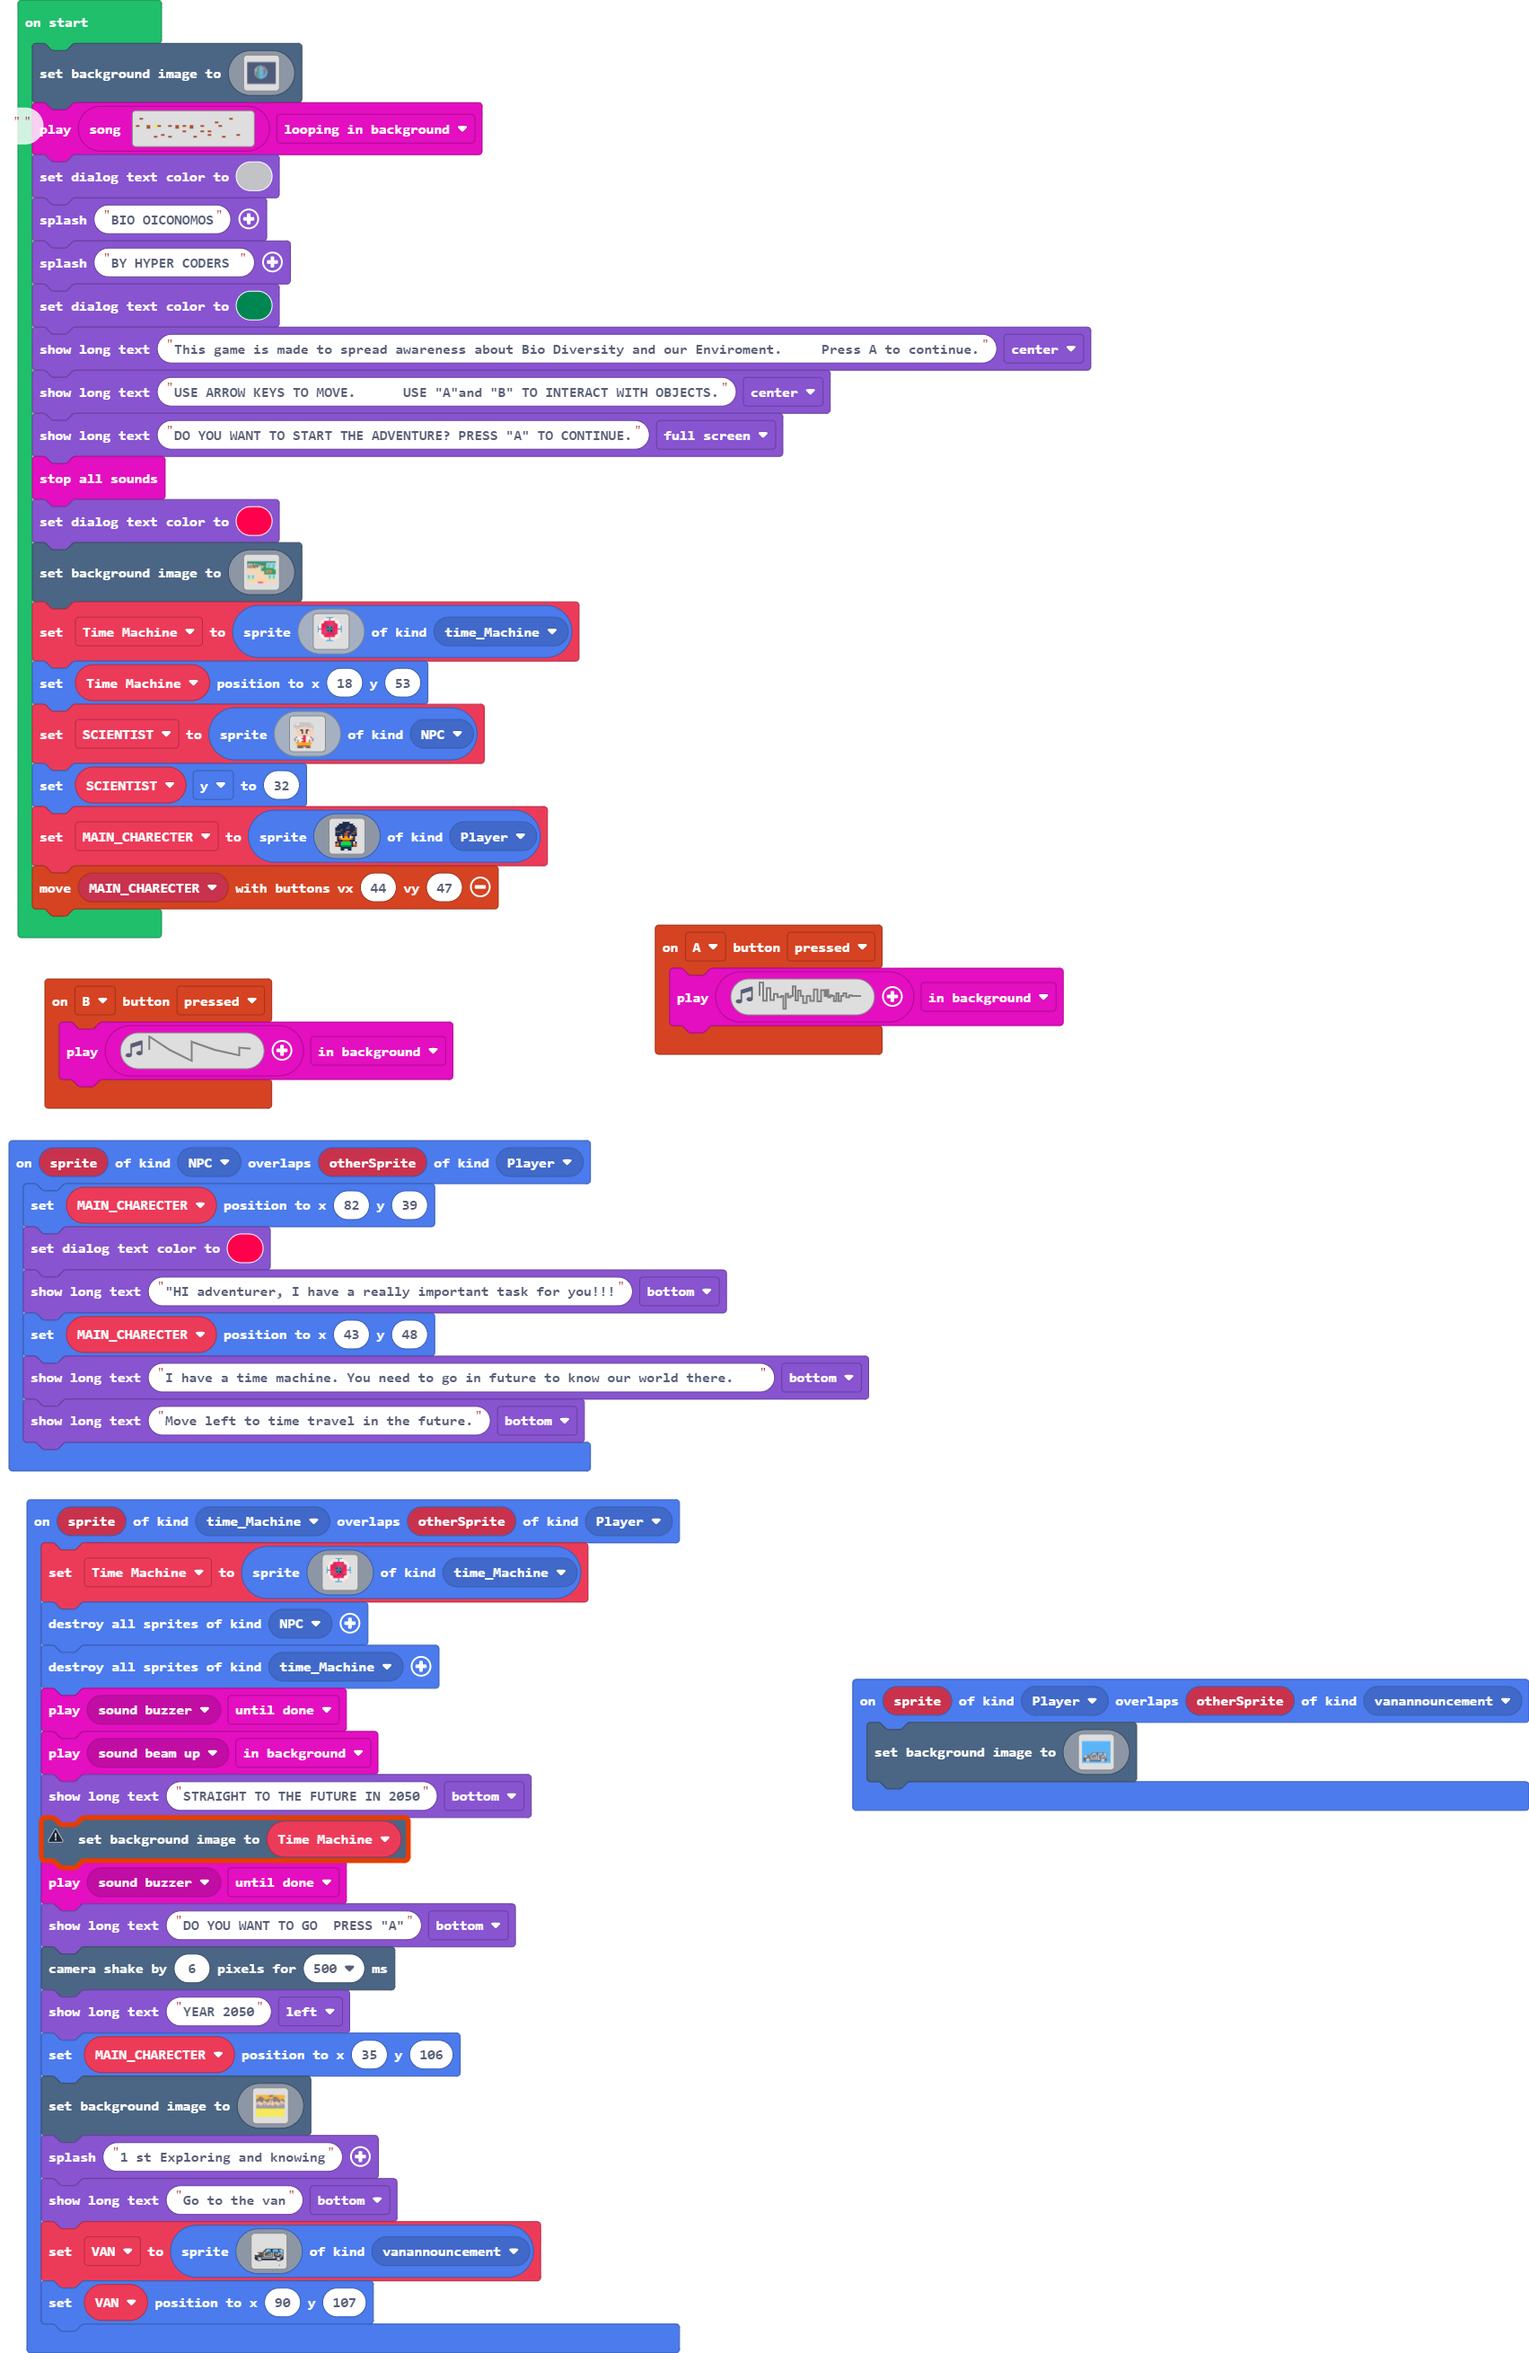
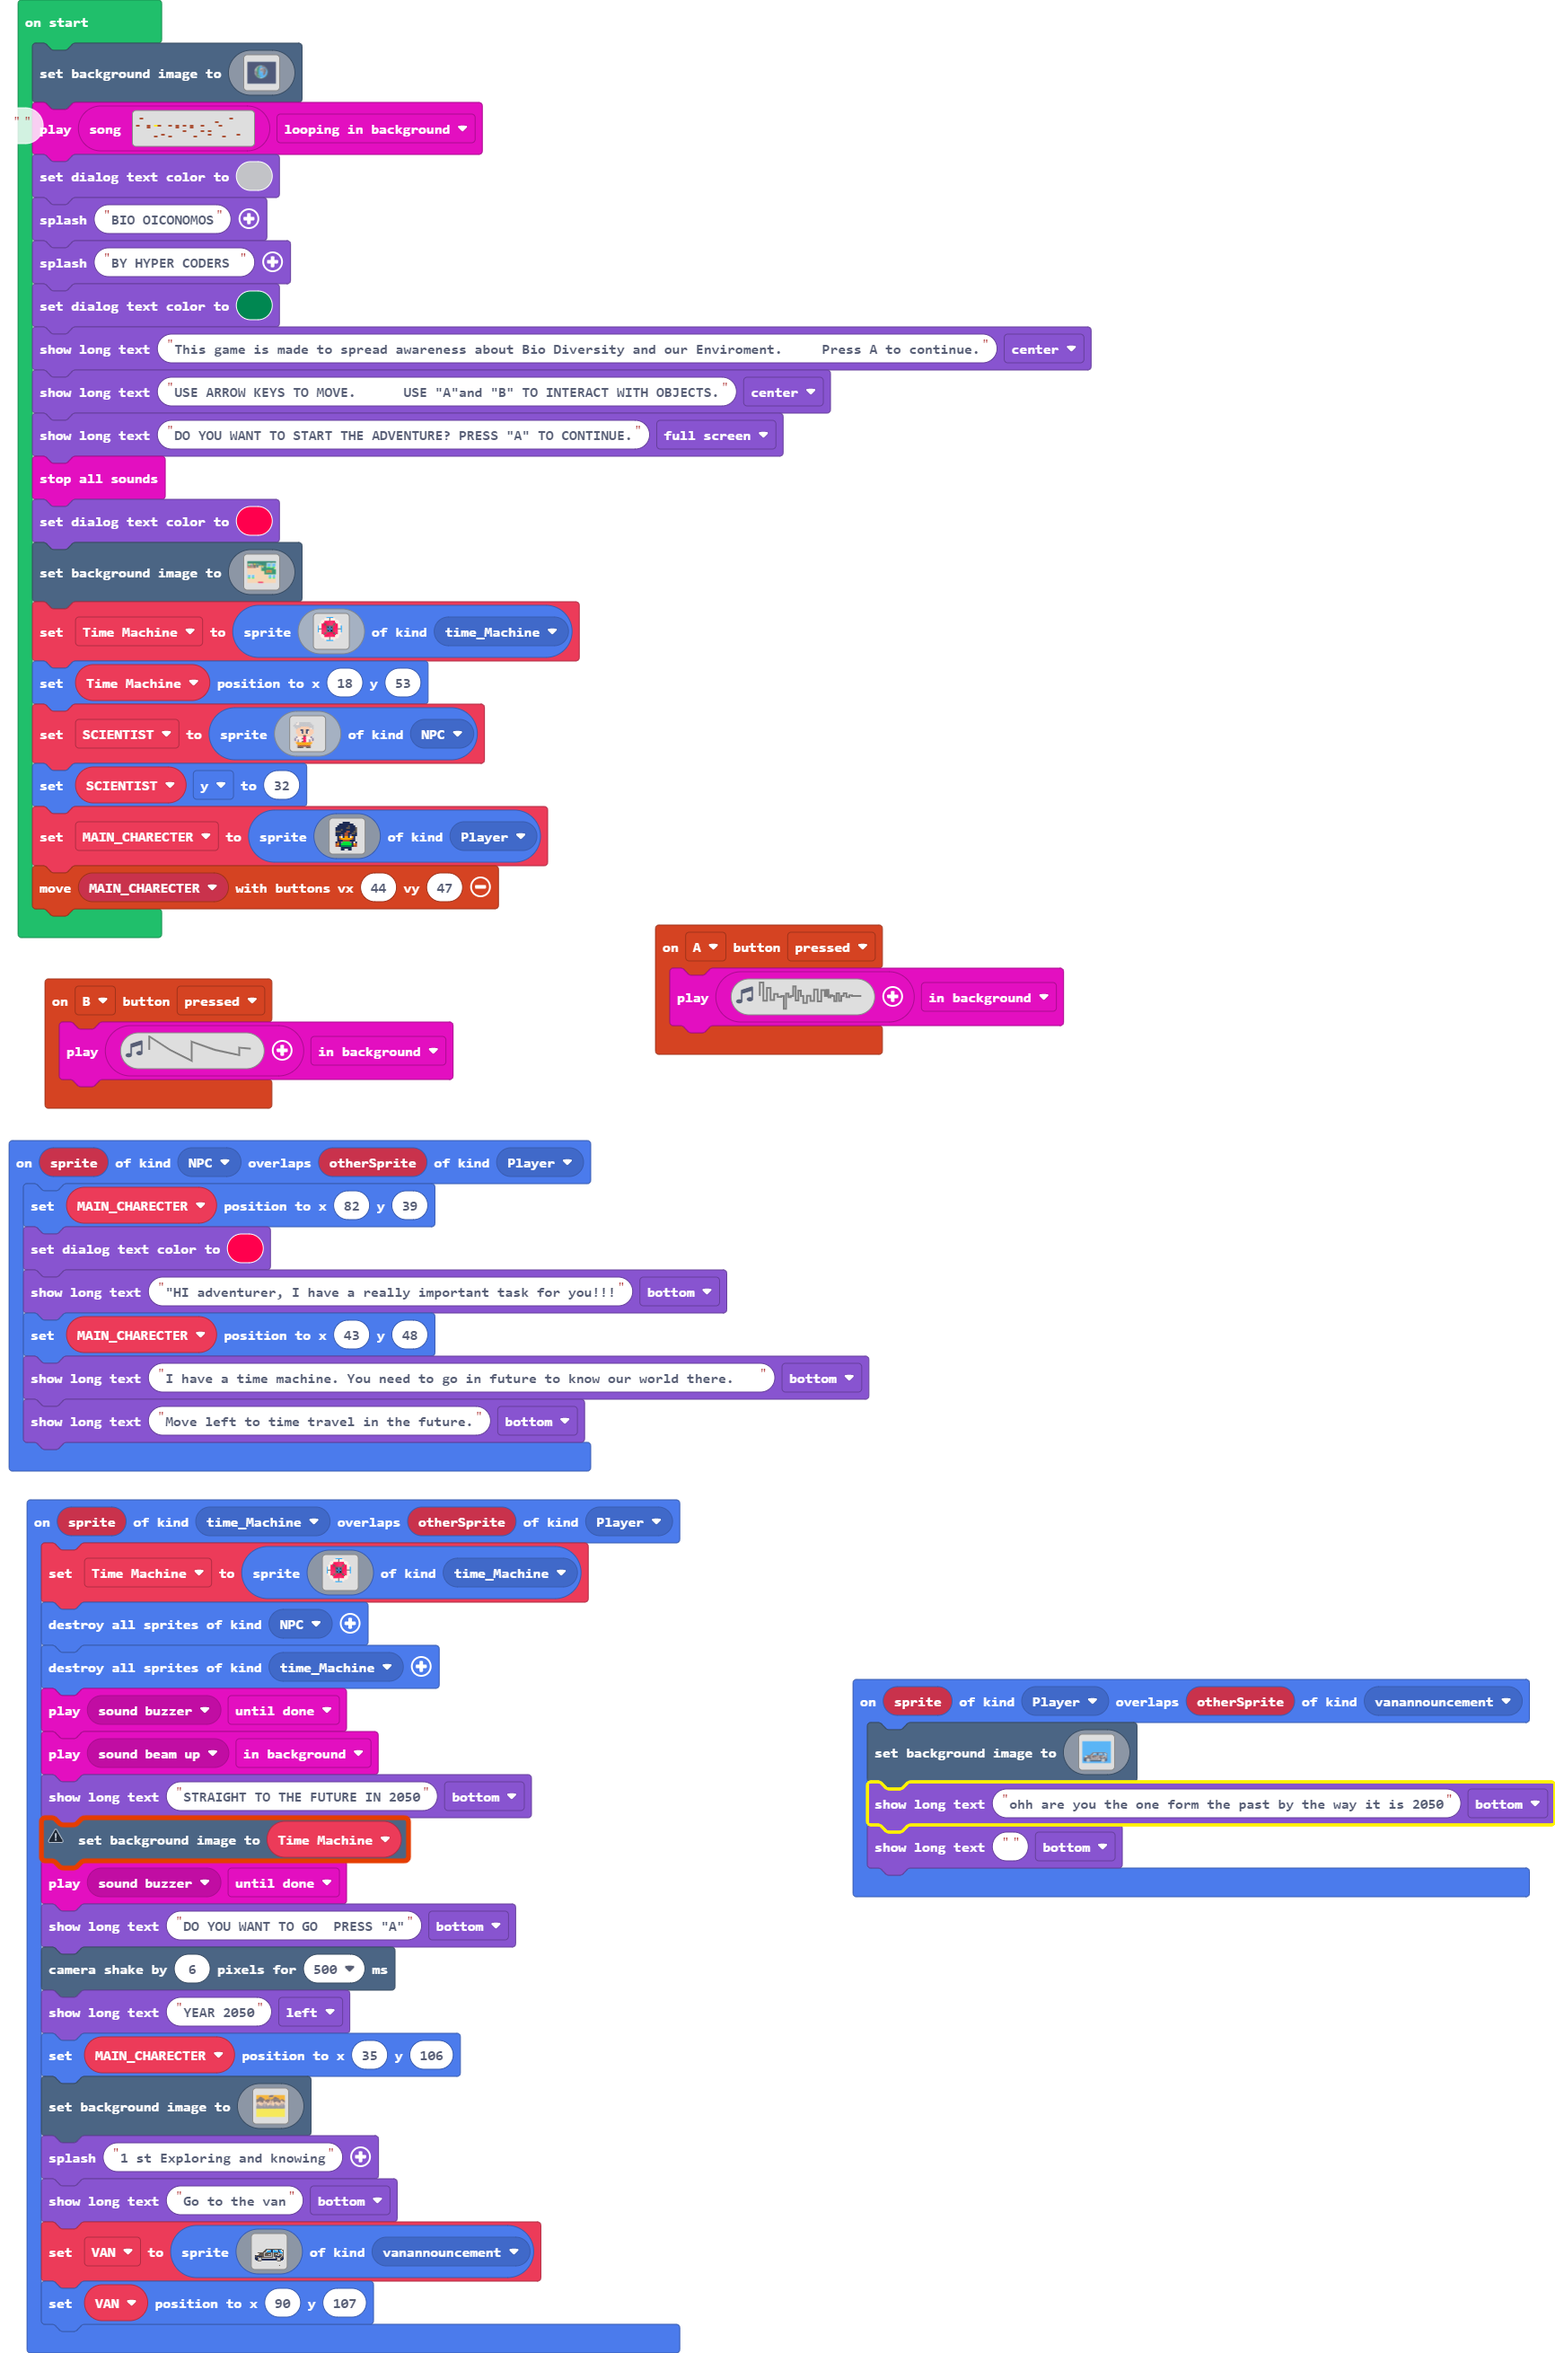
Update main.blocks, main.ts

diff --git a/main.ts b/main.ts
@@ -151,6 +151,8 @@ sprites.onOverlap(SpriteKind.Player, SpriteKind.vanannouncement, function (sprit
         8888888888888888888888888888888888888888888888888888888888888888888888888888888888888888888888888888888888888888888888888888888888888888888888888888888888888888
         8888888888888888888888888888888888888888888888888888888888888888888888888888888888888888888888888888888888888888888888888888888888888888888888888888888888888888
         `)
+    game.showLongText("ohh are you the one form the past by the way it is 2050", DialogLayout.Bottom)
+    game.showLongText("", DialogLayout.Bottom)
 })
 sprites.onOverlap(SpriteKind.NPC, SpriteKind.Player, function (sprite, otherSprite) {
     MAIN_CHARECTER.setPosition(82, 39)
